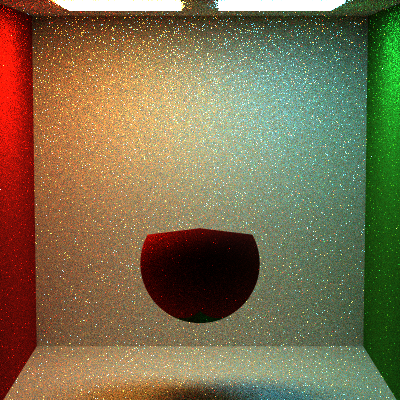
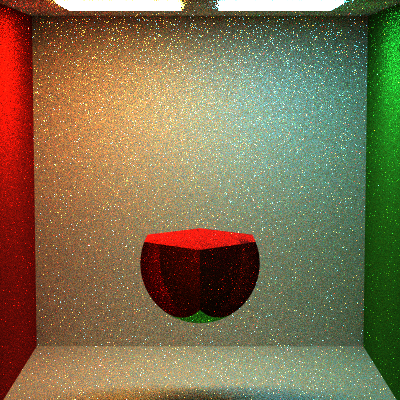
CSG and implicit

diff --git a/index.html b/index.html
@@ -154,19 +154,19 @@
                   </a>
               </div>
 
-              <div class="col-lg-8 text-center">
+              <div class="col-lg-9 text-center">
                   <p>
                     Constructive Solid Geometry
                   </p>
                   <br>
               </div>
-              <div class="col-lg-4 text-center">
+              <div class="col-lg-3 text-center">
                   <p>
                     Complex Implicit Surfaces
                   </p>
                   <br>
               </div>
-              <div class="col-sm-4 portfolio-item">
+              <div class="col-sm-3 portfolio-item">
                   <a href="#csgunion" class="portfolio-link" data-toggle="modal">
                       <div class="caption">
                           <div class="caption-content">
@@ -181,7 +181,22 @@
                   </a>
               </div>
 
-              <div class="col-sm-4 portfolio-item">
+                <div class="col-sm-3 portfolio-item">
+                  <a href="#csgintersect" class="portfolio-link" data-toggle="modal">
+                      <div class="caption">
+                          <div class="caption-content">
+                            <i class="fa fa-search-plus fa-3x"></i>
+                            <br>
+                            <br>
+                            <h3><small>Monte Carlo Path Tracer<small></h3>
+                            <h3>CSG Intersect</h3>
+                          </div>
+                      </div>
+                      <img src="img/portfolio/MCPT/csg/intersection.png" class="img-responsive" alt="CSG-Intersection">
+                  </a>
+              </div>
+
+              <div class="col-sm-3 portfolio-item">
                   <a href="#csgdiff" class="portfolio-link" data-toggle="modal">
                       <div class="caption">
                           <div class="caption-content">
@@ -196,7 +211,7 @@
                   </a>
               </div>
 
-              <div class="col-sm-4 portfolio-item">
+              <div class="col-sm-3 portfolio-item">
                   <a href="#implicit" class="portfolio-link" data-toggle="modal">
                       <div class="caption">
                           <div class="caption-content">
@@ -208,6 +223,66 @@
                           </div>
                       </div>
                       <img src="img/portfolio/MCPT/implicit.png" class="img-responsive" alt="implicit">
+                  </a>
+              </div>
+
+                <div class="col-sm-3 portfolio-item">
+                  <a href="#csgunion2" class="portfolio-link" data-toggle="modal">
+                      <div class="caption">
+                          <div class="caption-content">
+                            <i class="fa fa-search-plus fa-3x"></i>
+                            <br>
+                            <br>
+                            <h3><small>Monte Carlo Path Tracer<small></h3>
+                            <h3>CSG Union</h3>
+                          </div>
+                      </div>
+                      <img src="img/portfolio/MCPT/csg/union2.png" class="img-responsive" alt="CSG-Union2">
+                  </a>
+              </div>
+
+                <div class="col-sm-3 portfolio-item">
+                  <a href="#csgintersect2" class="portfolio-link" data-toggle="modal">
+                      <div class="caption">
+                          <div class="caption-content">
+                            <i class="fa fa-search-plus fa-3x"></i>
+                            <br>
+                            <br>
+                            <h3><small>Monte Carlo Path Tracer<small></h3>
+                            <h3>CSG Intersect</h3>
+                          </div>
+                      </div>
+                      <img src="img/portfolio/MCPT/csg/intersection2.png" class="img-responsive" alt="CSG-Intersection2">
+                  </a>
+              </div>
+
+              <div class="col-sm-3 portfolio-item">
+                  <a href="#csgdiff2" class="portfolio-link" data-toggle="modal">
+                      <div class="caption">
+                          <div class="caption-content">
+                            <i class="fa fa-search-plus fa-3x"></i>
+                            <br>
+                            <br>
+                            <h3><small>Monte Carlo Path Tracer<small></h3>
+                            <h3>CSG Difference</h3>
+                          </div>
+                      </div>
+                      <img src="img/portfolio/MCPT/csg/difference2.png" class="img-responsive" alt="CSG-Diff2">
+                  </a>
+              </div>
+
+                <div class="col-sm-3 portfolio-item">
+                  <a href="#implicit2" class="portfolio-link" data-toggle="modal">
+                      <div class="caption">
+                          <div class="caption-content">
+                            <i class="fa fa-search-plus fa-3x"></i>
+                            <br>
+                            <br>
+                            <h3><small>Monte Carlo Path Tracer<small></h3>
+                            <h3>Complex Implicit Surfaces</h3>
+                          </div>
+                      </div>
+                      <img src="img/portfolio/MCPT/implicit2.png" class="img-responsive" alt="implicit2">
                   </a>
               </div>
 
@@ -551,6 +626,7 @@
                     </div>
                 </div>
             </div>
+
             <div class="container">
                 <div class="row">
                     <div class="col-lg-8 col-lg-offset-2">
@@ -558,6 +634,45 @@
                             <h2>CSG Union</h2>
                             <hr class="star-primary">
                             <img src="img/portfolio/MCPT/csg/union.png" class="img-responsive img-centered" alt="csg_union">
+
+                            <p>
+                              <hr>
+                              <p>
+                              9 samples per pixel
+                              <p>
+                              5 bounces
+                            </p>
+
+                            <ul class="list-inline item-details">
+                                <li>Date:
+                                    <strong>July 2017</strong>
+                                </li>
+                            </ul>
+
+                            <button type="button" class="btn btn-default" data-dismiss="modal"><i class="fa fa-times"></i> Close</button>
+                        </div>
+                    </div>
+                </div>
+            </div>
+        </div>
+    </div>
+
+    <!-- CSG Intersect -->
+    <div class="portfolio-modal modal fade" id="csgintersect" tabindex="-1" role="dialog" aria-hidden="true">
+        <div class="modal-content">
+            <div class="close-modal" data-dismiss="modal">
+                <div class="lr">
+                    <div class="rl">
+                    </div>
+                </div>
+            </div>
+            <div class="container">
+                <div class="row">
+                    <div class="col-lg-8 col-lg-offset-2">
+                        <div class="modal-body">
+                            <h2>CSG Intersect</h2>
+                            <hr class="star-primary">
+                            <img src="img/portfolio/MCPT/csg/intersection.png" class="img-responsive img-centered" alt="csg_isx">
 
                             <p>
                               <hr>
@@ -620,6 +735,124 @@
         </div>
     </div>
 
+    <!-- CSG Union -->
+    <div class="portfolio-modal modal fade" id="csgunion2" tabindex="-1" role="dialog" aria-hidden="true">
+        <div class="modal-content">
+            <div class="close-modal" data-dismiss="modal">
+                <div class="lr">
+                    <div class="rl">
+                    </div>
+                </div>
+            </div>
+
+            <div class="container">
+                <div class="row">
+                    <div class="col-lg-8 col-lg-offset-2">
+                        <div class="modal-body">
+                            <h2>CSG Union</h2>
+                            <hr class="star-primary">
+                            <img src="img/portfolio/MCPT/csg/union2.png" class="img-responsive img-centered" alt="csg_union2">
+
+                            <p>
+                              <hr>
+                              <p>
+                              9 samples per pixel
+                              <p>
+                              5 bounces
+                            </p>
+
+                            <ul class="list-inline item-details">
+                                <li>Date:
+                                    <strong>July 2017</strong>
+                                </li>
+                            </ul>
+
+                            <button type="button" class="btn btn-default" data-dismiss="modal"><i class="fa fa-times"></i> Close</button>
+                        </div>
+                    </div>
+                </div>
+            </div>
+        </div>
+    </div>
+
+    <!-- CSG Intersect -->
+    <div class="portfolio-modal modal fade" id="csgintersect2" tabindex="-1" role="dialog" aria-hidden="true">
+        <div class="modal-content">
+            <div class="close-modal" data-dismiss="modal">
+                <div class="lr">
+                    <div class="rl">
+                    </div>
+                </div>
+            </div>
+            <div class="container">
+                <div class="row">
+                    <div class="col-lg-8 col-lg-offset-2">
+                        <div class="modal-body">
+                            <h2>CSG Intersect</h2>
+                            <hr class="star-primary">
+                            <img src="img/portfolio/MCPT/csg/intersection2.png" class="img-responsive img-centered" alt="csg_isx2">
+
+                            <p>
+                              <hr>
+                              <p>
+                              9 samples per pixel
+                              <p>
+                              5 bounces
+                            </p>
+
+                            <ul class="list-inline item-details">
+                                <li>Date:
+                                    <strong>July 2017</strong>
+                                </li>
+                            </ul>
+
+                            <button type="button" class="btn btn-default" data-dismiss="modal"><i class="fa fa-times"></i> Close</button>
+                        </div>
+                    </div>
+                </div>
+            </div>
+        </div>
+    </div>
+
+    <!-- CSG Difference -->
+    <div class="portfolio-modal modal fade" id="csgdiff2" tabindex="-1" role="dialog" aria-hidden="true">
+        <div class="modal-content">
+            <div class="close-modal" data-dismiss="modal">
+                <div class="lr">
+                    <div class="rl">
+                    </div>
+                </div>
+            </div>
+            <div class="container">
+                <div class="row">
+                    <div class="col-lg-8 col-lg-offset-2">
+                        <div class="modal-body">
+                            <h2>CSG Union</h2>
+                            <hr class="star-primary">
+                            <img src="img/portfolio/MCPT/csg/difference2.png" class="img-responsive img-centered" alt="csg_diff2">
+
+                            <p>
+                              <hr>
+                              <p>
+                              9 samples per pixel
+                              <p>
+                              5 bounces
+                            </p>
+
+                            <ul class="list-inline item-details">
+                                <li>Date:
+                                    <strong>July 2017</strong>
+                                </li>
+                            </ul>
+
+                            <button type="button" class="btn btn-default" data-dismiss="modal"><i class="fa fa-times"></i> Close</button>
+                        </div>
+                    </div>
+                </div>
+            </div>
+        </div>
+    </div>
+
     <!-- Implicit Surfaces -->
     <div class="portfolio-modal modal fade" id="implicit" tabindex="-1" role="dialog" aria-hidden="true">
         <div class="modal-content">
@@ -646,6 +879,51 @@
                               900 samples per pixel
                               <p>
                               8 bounces
+                            </p>
+
+                            <ul class="list-inline item-details">
+                                <li>Date:
+                                    <strong>April 2017</strong>
+                                </li>
+                                <li>Course:
+                                  <strong>Penn CIS561: Advanced Rendering</strong>
+                                </li>
+                            </ul>
+
+                            <button type="button" class="btn btn-default" data-dismiss="modal"><i class="fa fa-times"></i> Close</button>
+                        </div>
+                    </div>
+                </div>
+            </div>
+        </div>
+    </div>
+
+    <!-- Implicit Surfaces -->
+    <div class="portfolio-modal modal fade" id="implicit2" tabindex="-1" role="dialog" aria-hidden="true">
+        <div class="modal-content">
+            <div class="close-modal" data-dismiss="modal">
+                <div class="lr">
+                    <div class="rl">
+                    </div>
+                </div>
+            </div>
+            <div class="container">
+                <div class="row">
+                    <div class="col-lg-8 col-lg-offset-2">
+                        <div class="modal-body">
+                            <h2>Complex Implicit Surfaces</h2>
+                            <hr class="star-primary">
+                            <img src="img/portfolio/MCPT/implicit2.png" class="img-responsive img-centered" alt="implicit2">
+
+                            <p>
+                              <a href = "http://mathworld.wolfram.com/topics/Surfaces.html" target = "blank">Wolfram</a> has a bunch of equations that represent different shapes.
+                              The one that I chose is called the Chair. Basically at each point on the ray, I check to see if the equation equals 0. If it is then we hit an
+                              intersection and render that point on the surface. Rather than using a diffuse area light, I used a blue spotlight to get the Tron effect.
+                              <hr>
+                              <p>
+                              400 samples per pixel
+                              <p>
+                              5 bounces
                             </p>
 
                             <ul class="list-inline item-details">
